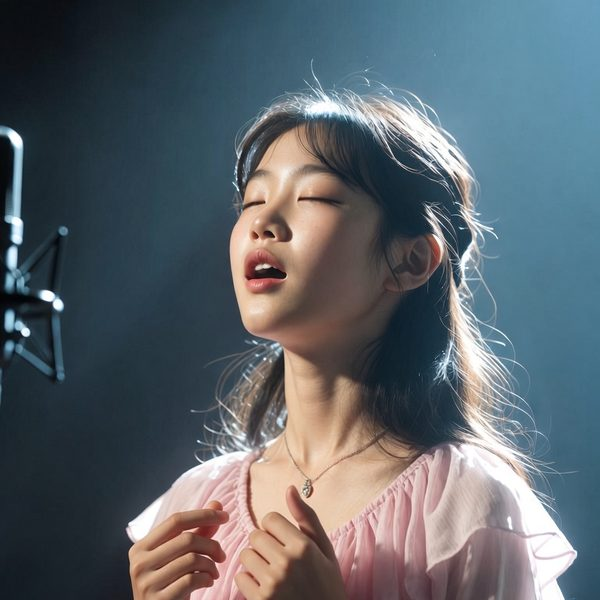
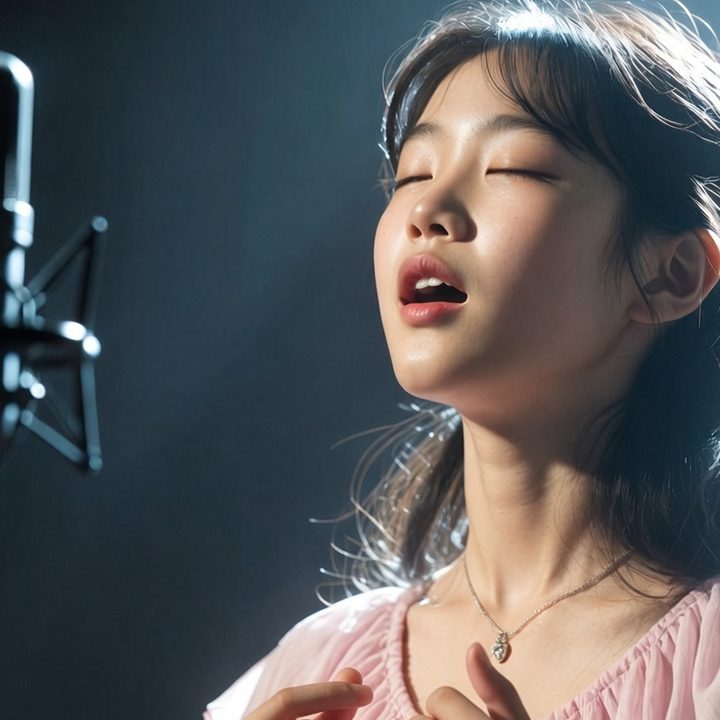
어디야 인물 사진: 얼굴 클로즈업 오른쪽 위, 시선은 글씨 쪽으로
Claude-Session: https://claude.ai/code/session_01Q9nWZonnK5vvRUcemeCVRT

diff --git a/app/index.html b/app/index.html
@@ -1092,8 +1092,9 @@
     v.appendChild(duo);
   }
   // 어디야 사진 돌리기(11-22 시험): 체리 → 어머니·아이·학생·친구… → 다시 체리. 모두 AI 인물(대표님 제공)
-  var EO_FACES = [['../img/eodiya-cherry12.jpg', '40%'], ['../img/ex/face1.jpg', '30%'], ['../img/ex/face3.jpg', '35%'], ['../img/ex/face2.jpg', '30%'],
-    ['../img/ex/face8.jpg', '12%'], ['../img/ex/face6.jpg', '30%'], ['../img/ex/face4.jpg', '30%'], ['../img/ex/face7.jpg', '45%'], ['../img/ex/face5.jpg', '30%']];
+  // 11-22: 얼굴이 오른쪽 위에 크게(클로즈업), 오른쪽을 보던 인물은 미리 좌우 뒤집어 왼쪽(글씨 쪽)을 보게 잘라 둠 — 사진 위쪽 기준
+  var EO_FACES = [['../img/eodiya-cherry12.jpg', '40%'], ['../img/ex/face1.jpg?v=2', '0%'], ['../img/ex/face3.jpg?v=2', '0%'], ['../img/ex/face2.jpg?v=2', '0%'],
+    ['../img/ex/face8.jpg?v=2', '0%'], ['../img/ex/face6.jpg?v=2', '0%'], ['../img/ex/face4.jpg?v=2', '0%'], ['../img/ex/face7.jpg?v=2', '0%'], ['../img/ex/face5.jpg?v=2', '0%']];
   // 사진 돌리기 공통(11-22): 4.5초마다 사르르, ⏸ 누르면 지금 사진에서 멈추고 기억(다음에 열어도 그 사진), ▶ 누르면 다시
   function picStop(key, v) { try { if (v === undefined) return localStorage.getItem(key); if (v === null) localStorage.removeItem(key); else localStorage.setItem(key, String(v)); } catch (e) { return null; } }
   function rotator(o) { // o: {host, layers, key, delay, onShow(k), btnHost}
@@ -1122,8 +1123,8 @@
     clearTimeout(tm); tm = setTimeout(tick, o.delay || 0);
   }
   // 어디야 사진 돌리기(11-22 시험): 체리 → 어머니·아이·학생·친구… → 다시 체리. 모두 AI 인물(대표님 제공)
-  var EO_FACES = [['../img/eodiya-cherry12.jpg', '40%'], ['../img/ex/face1.jpg', '30%'], ['../img/ex/face3.jpg', '35%'], ['../img/ex/face2.jpg', '30%'],
-    ['../img/ex/face8.jpg', '12%'], ['../img/ex/face6.jpg', '30%'], ['../img/ex/face4.jpg', '30%'], ['../img/ex/face7.jpg', '45%'], ['../img/ex/face5.jpg', '30%']];
+  var EO_FACES = [['../img/eodiya-cherry12.jpg', '40%'], ['../img/ex/face1.jpg?v=2', '30%'], ['../img/ex/face3.jpg?v=2', '35%'], ['../img/ex/face2.jpg?v=2', '30%'],
+    ['../img/ex/face8.jpg?v=2', '12%'], ['../img/ex/face6.jpg?v=2', '30%'], ['../img/ex/face4.jpg?v=2', '30%'], ['../img/ex/face7.jpg?v=2', '45%'], ['../img/ex/face5.jpg?v=2', '30%']];
   function eoFaces(ph) {
     if (!ph) return;
     var sec = ph.parentNode, bg = document.createElement('div'); bg.className = 'bgx';

diff --git a/sw.js b/sw.js
@@ -1,5 +1,5 @@
 /* 싸바 서비스워커 — 새 파일을 먼저 받고(network-first), 인터넷이 약하면 저장해 둔 화면을 보여줌 */
-var CACHE = 'sava-v379';
+var CACHE = 'sava-v380';
 var SHELL = ['./', './app/', './eodiya/', './lucky/', './shoot/', './fly/', './pool/', './match/', './rps/', './updown/', './mole/', './chosung/', './eye/', './react/', './omok/', './baduk/', './alkkagi/', './pang/', './grow/', './emo/', './make/', './c/', './css/brand.css', './css/sk.css', './css/sk-world.css',
   './js/codec.js', './js/store.js', './js/designs.js', './js/render.js', './js/roster.js', './js/notice.js', './js/share.js', './js/msgimg.js', './js/install.js', './js/sound.js',
   './img/icon-192.png?v=4', './img/cherry.webp', './img/cherry-dance-anim.svg', './manifest.webmanifest'];

diff --git a/js/install.js b/js/install.js
@@ -129,7 +129,7 @@
     try { navigator.serviceWorker.register(SELF.replace(/js\/install\.js.*$/, 'sw.js')).catch(function () {}); } catch (e) {}
   }
   // ---------- 최신 버전 업데이트 ----------
-  var VER = '2026.11.22-404'; // 올릴 때마다 version.json 과 같이 올림
+  var VER = '2026.11.22-405'; // 올릴 때마다 version.json 과 같이 올림
   var BASE_DIR = SELF ? SELF.replace(/js\/install\.js.*$/, '') : '/';
   var CORE = ['js/install.js', 'js/share.js', 'js/msgimg.js', 'js/designs.js', 'js/render.js', 'js/export.js', 'js/codec.js', 'js/store.js', 'demo/js/card.js', 'css/sk.css', 'css/brand.css', 'sw.js', 'app/', 'make/', 'eodiya/', 'c/'];
   // 휴대폰 브라우저가 묵혀 둔 파일을 서버의 새 파일로 바꿔 둠 (화면은 그대로)

diff --git a/docs/STATUS.md b/docs/STATUS.md
@@ -3,9 +3,10 @@
 > 대화방을 닫기 전에 Claude가 이 파일을 최신으로 고쳐서 커밋한다.
 > 새 방에서 "싸바"라고 하면: 이 파일 → 최근 커밋 순서로 확인하고 바로 이어서 작업.
 
-마지막 갱신: 2026-11-22 05:00
+마지막 갱신: 2026-11-22 05:10
 
 ## 1. 마지막으로 올린 작업
+- 2026-11-22 05:10 — 어디야 인물 사진 다시 자름(대표님: 얼굴 위주 클로즈업, 오른쪽 위로, 오른쪽 보는 인물은 왼쪽 보게): face1~8.jpg를 원본에서 720px 정사각으로 새로 — 얼굴 너비의 약 2.8배 크기, 얼굴을 가로 66%·세로 36%(오른쪽 위)에, 오른쪽을 보던 어머니·남학생·아이·마이크 여성(1·2·3·5)은 좌우 뒤집어 글씨 쪽을 보게. 칸에선 cover·위쪽 기준(EO_FACES '0%'). 2번 검은 띠·3번 Kling 표시는 피해서 자름. 7·8번은 원본 얼굴이 작아 확대해 조금 흐릴 수 있음 · face*.jpg?v=2 · 버전 2026.11.22-405 / sw sava-v380
 - 2026-11-22 05:00 — 사진 돌리기 멈춤(대표님: 움직임이 불편한 사람은 마음에 드는 인물에서 멈춰 그대로 쓰게): 어디야 칸 오른쪽 위·싸바카드 사진판 왼쪽 위에 반투명 알약 [⏸ 이 사진으로] → 누르면 그 사진에서 멈추고 이 폰에 기억(localStorage sava-eo-pic / sava-mk-pic — 다음에 열어도 그 사진), [▶ 사진 넘기기]로 다시 돌림. 공통 함수 rotator()로 정리(eoFaces·rotPics가 씀). 움직임 줄이기 폰은 첫 사진만+단추 숨김(멈춰 둔 사진이 있으면 그 사진) · 버전 2026.11.22-404 / sw sava-v379
 - 2026-11-22 04:50 — 어디야 칸 사진 돌리기 손질(대표님: 사진 나올 땐 체리색 완전히 빼고 사진 위에 글씨만): 사진 층을 칸 전체(.bgx, 맨 뒤)로 옮김 — 체리 차례는 예전처럼 위 190px 체리+와인 바탕, 사람 차례는 사진이 칸 전체를 덮고(.face) 와인 번짐 꺼짐, 아래쪽만 옅은 검정 그라데이션 + 글씨 검은 그림자로 읽히게, 세 단추는 92% 흰색 · 버전 2026.11.22-403 / sw sava-v378
 - 2026-11-22 04:45 — 홈 v2 싸바카드 칸에도 사진 돌리기: 단추와 언니김치 띠 사이에 흰 테 사진판(.mkph, 150px) — 예시 카드 7장(압구정 순천만 오늘의 메뉴 menu-gul · 송년회·신년회 · 배우 프로필 actor-snow · 동문산악회 공지 wetland-path · 족집게어학원 특강 · 비온비 성수점 이벤트 · 새해 인사)이 4.5초마다 바뀌고 아래 이름도 같이 바뀜, 오른쪽 위 '이런 카드' 딱지. 어디야와 2.2초 엇갈림(rotPics, MK_PICS). 원칙: 움직이는 칸은 어디야 포함 두세 개까지만 · 버전 2026.11.22-402 / sw sava-v377
